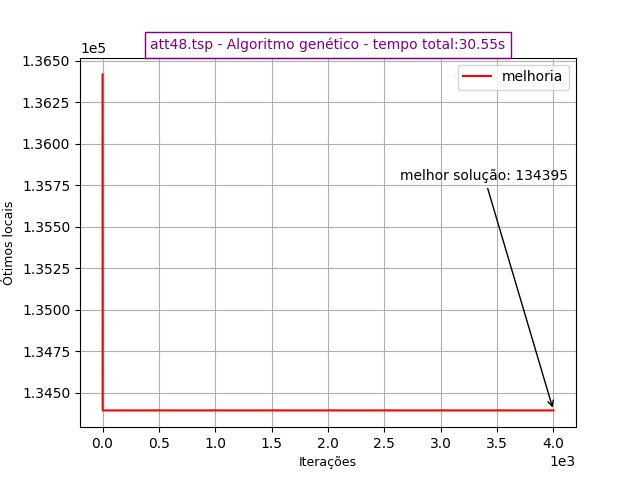
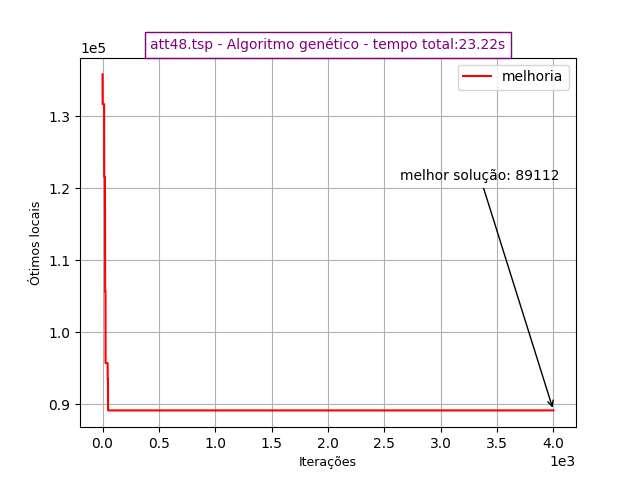
argumento para operador de cruzamento disponível

diff --git a/PCV/genetico/genetic.py b/PCV/genetico/genetic.py
@@ -313,7 +313,7 @@ def steady_stated(graph, population, filhos):
 
 ###########################################################################################
 
-def genetic(graph, pop, mut, max_i, max_t, s):
+def genetic(graph, pop, mut, max_i, max_t, s, cross_operator):
     population = []
     busca = []
     plt_opts = []
@@ -360,8 +360,10 @@ def genetic(graph, pop, mut, max_i, max_t, s):
 
         ### Cruzamento ###
         print(f'\nCruzamento:[{it}]')
-        # filhos = cx(pais)
-        filhos = pos(pais)
+        if cross_operator == 'cx':
+            filhos = cx(pais)
+        else:
+            filhos = pos(pais)
         # for i in range(1,localLen(filhos)):
         #     print(f'filhos[{i}]:{filhos[i]} - custo(filhos[{i}]):{fitness(graph, filhos[i])}\n')
 

diff --git a/PCV/genetico/input.py b/PCV/genetico/input.py
@@ -27,6 +27,10 @@ def fileinput():
     parser.add_argument(dest="filename", help='arquivo .tsp',
                         type=lambda x: is_valid_file(parser, x))
 
+    parser.add_argument('-cross', action='store',  dest='cross_operator', default='cx',
+                        required=False,
+                        help="Operador de cruzamento, cx para 'Cycle crossover', pos para 'Position based crossover' ")
+
     parser.add_argument('-pop', action='store', type=int, dest='population', default=25,
                         required=False,
                         help="Tamanho da população inicial (padrão: 25)")

diff --git a/PCV/genetico/main.py b/PCV/genetico/main.py
@@ -16,6 +16,6 @@ if __name__ == '__main__':
     ### Input ###
     args, graph = fileinput()
 
-    genetic(graph[:], int(args.population), int(args.mutation), int(args.max_iteration), int(args.max_time) * 60, int(args.seed))
+    genetic(graph[:], int(args.population), int(args.mutation), int(args.max_iteration), int(args.max_time) * 60, int(args.seed), args.cross_operator)
 
 
